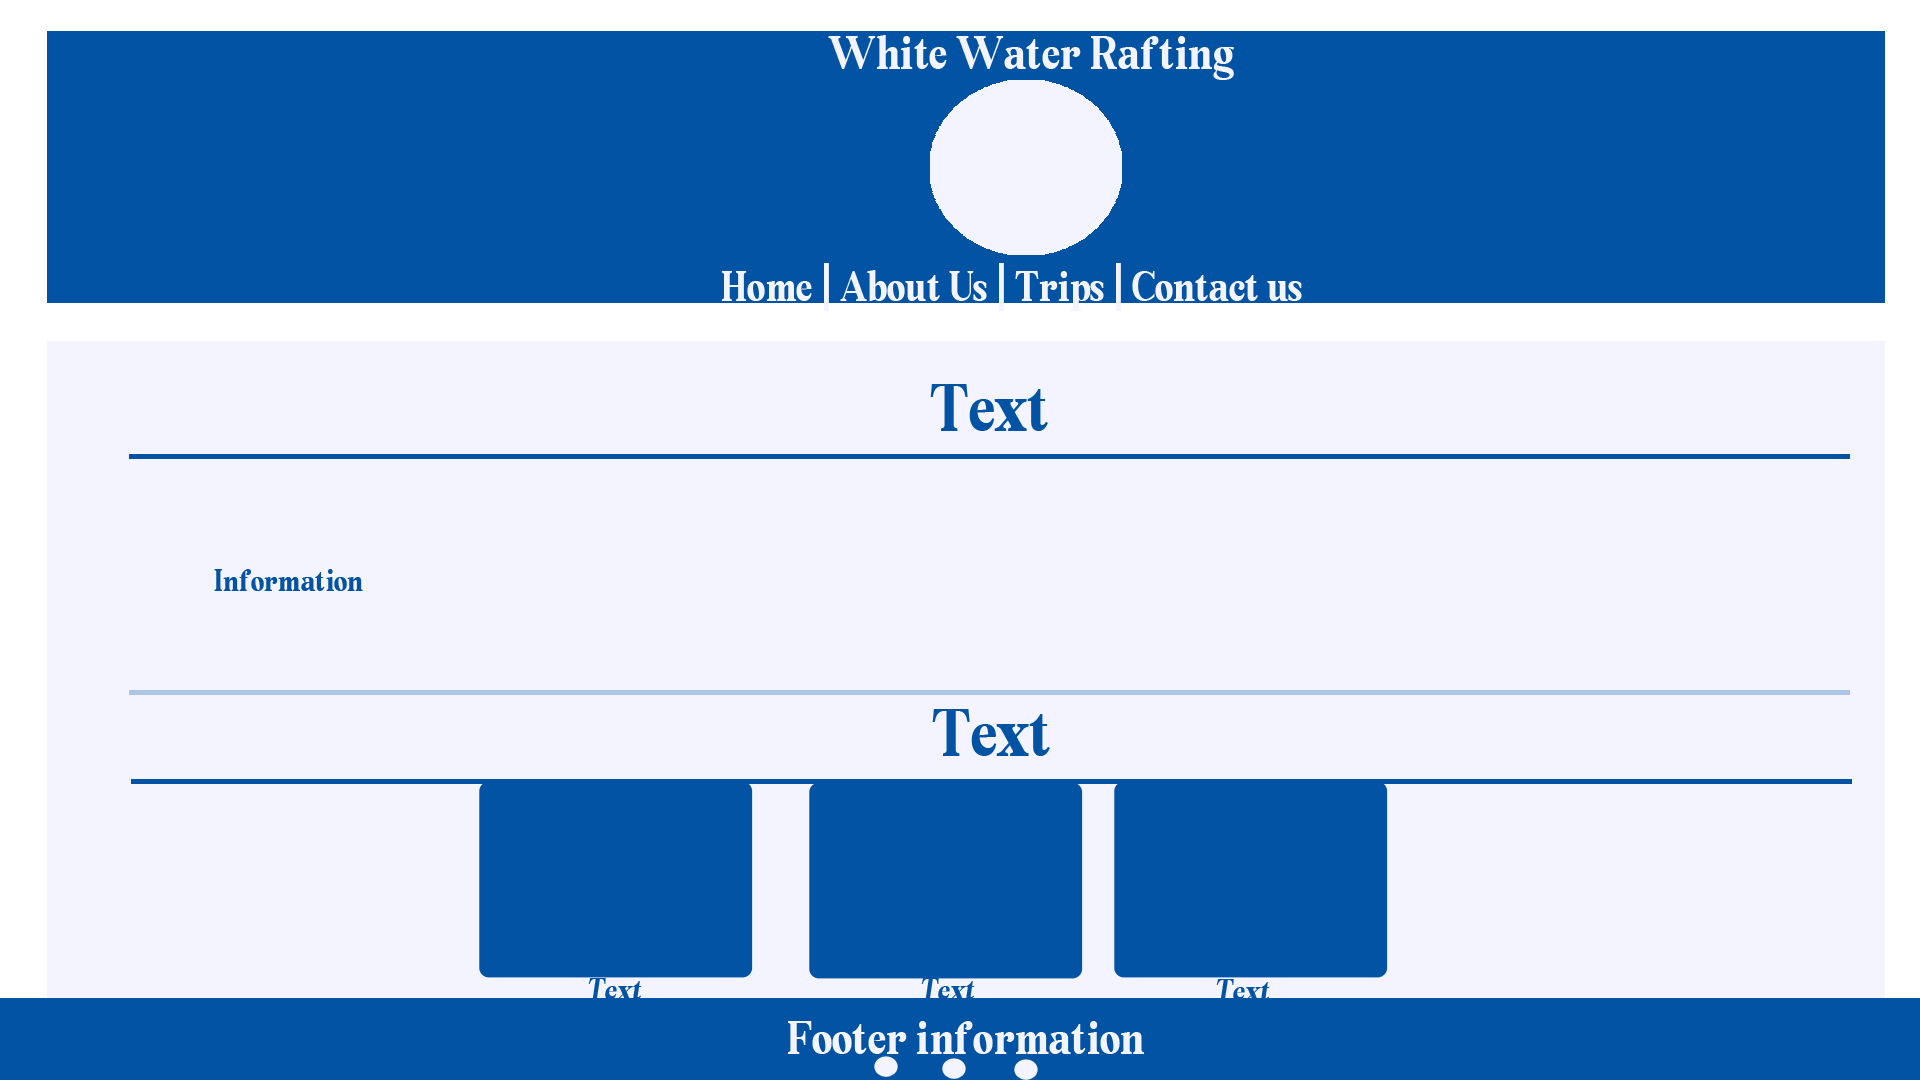
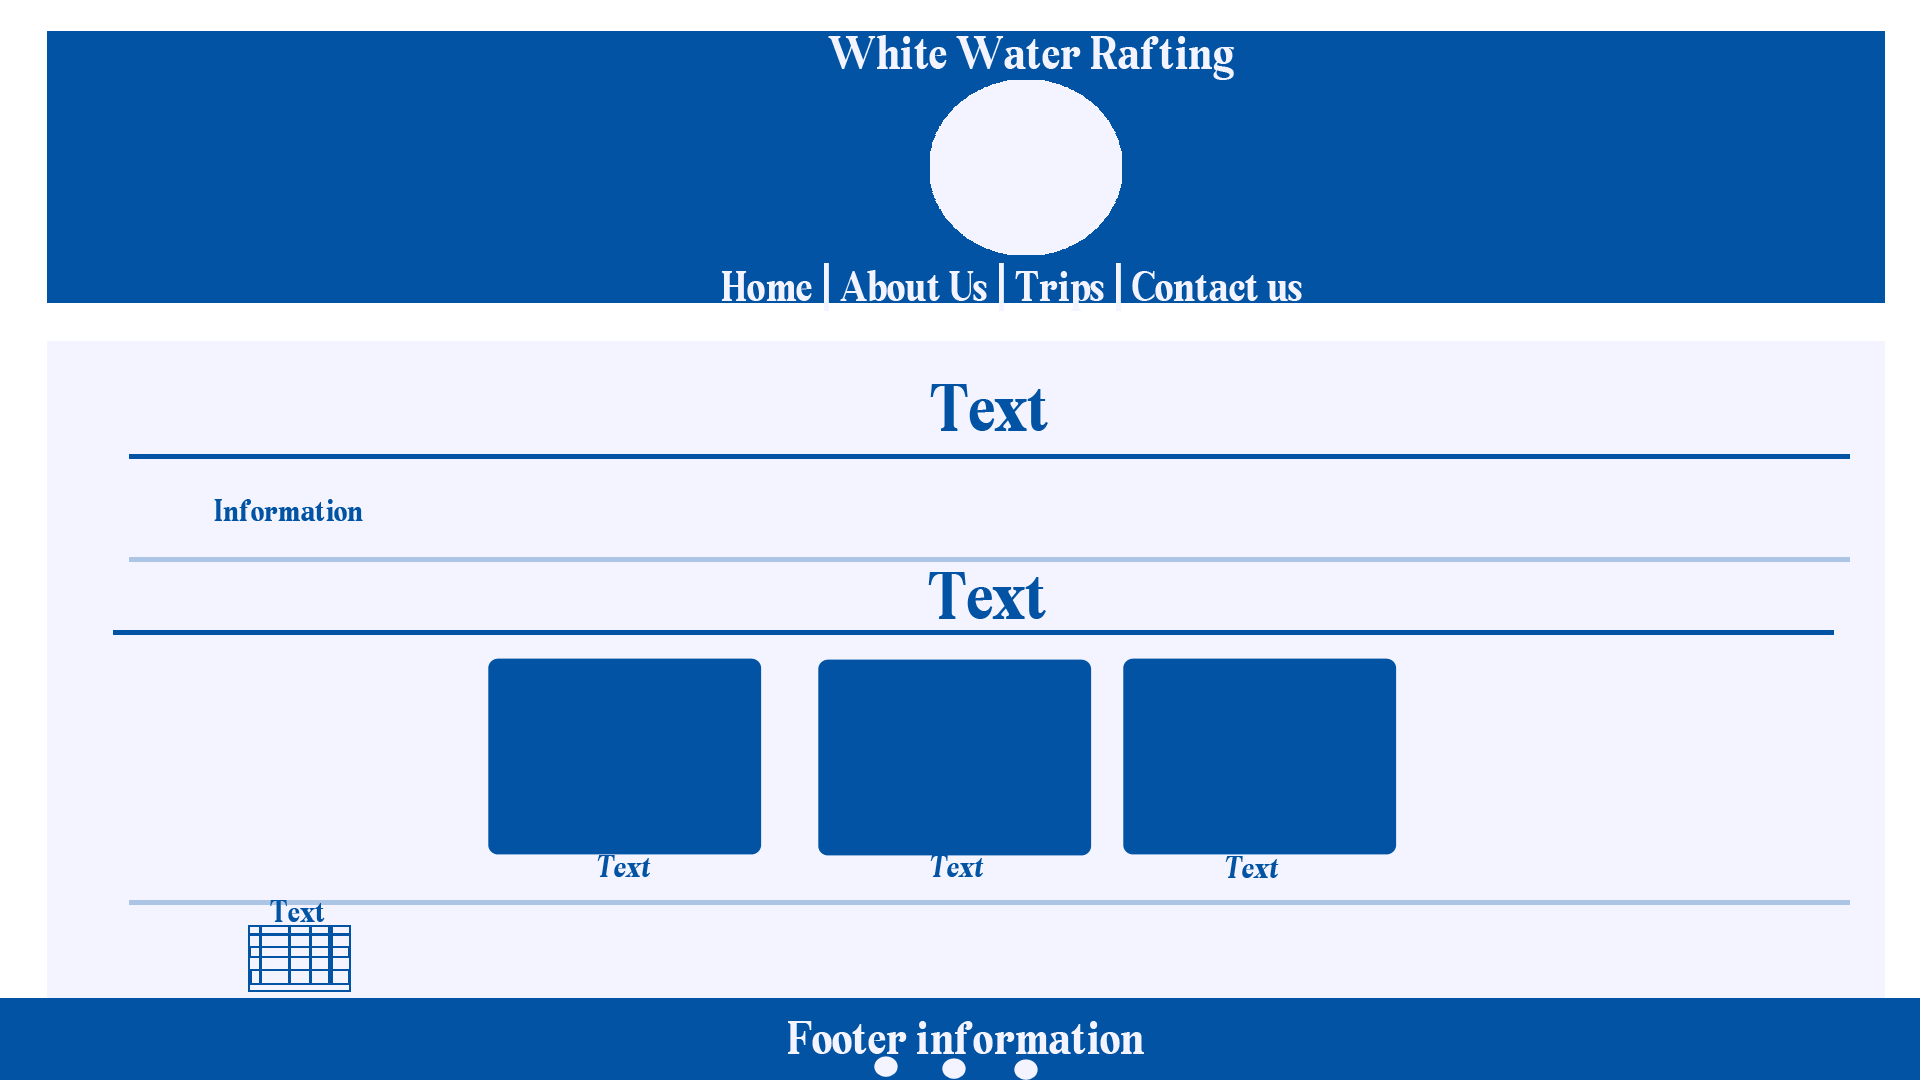
5

Changed region(s): [[0.0625, 0.4583, 0.9688, 0.9167]]

diff --git a/wwr/trips.html b/wwr/trips.html
@@ -52,6 +52,42 @@
             </section>
         </section>
     
+        <section class="section">
+            <div class="section-header">
+                <table border="1">
+                    <caption>Available trips</caption>
+                    <thead>
+                        <tr>
+                            <th>Available</th>
+                            <th>Reserved</th>
+                            <th>Full</th>
+                        </tr>
+                    </thead>
+                    <tbody>
+                        <tr>
+                            <td>River</td>
+                            <td>Lake</td>
+                            <td>Rapids</td>
+                        </tr>
+                        <tr>
+                            <td>Mountain</td>
+                            <td>Forest</td>
+                            <td>Mountain</td>
+                        </tr>
+                    </tbody>
+                    <tfoot>
+                        <tr>
+                            <td colspan="3">For more information, contact us.</td>
+                        </tr>
+                    </tfoot>
+                </table>
+                
+        </section>
+        
+        
+        
+
+    
     </main>
 
     <footer>
@@ -72,4 +108,5 @@
     </footer>
 </body>
 </html>
+
 
